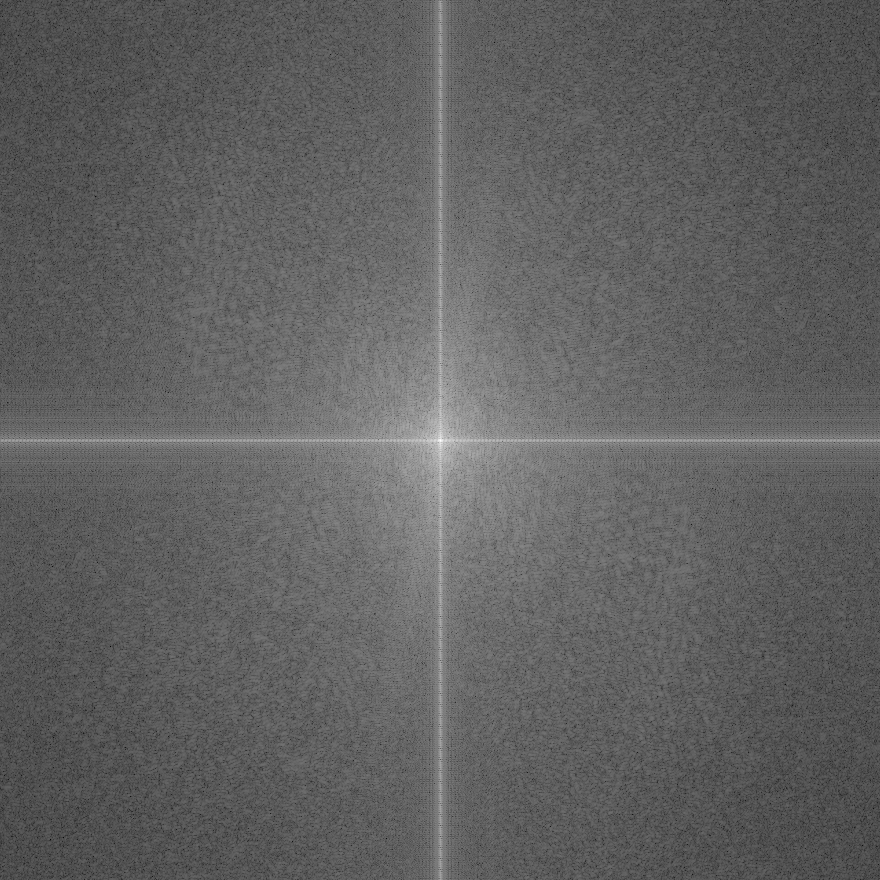
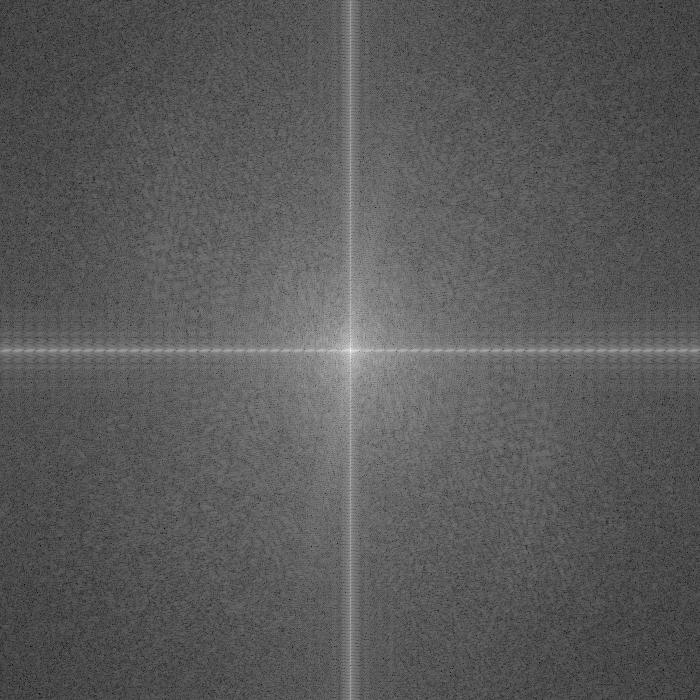
プログラムの整理

diff --git a/X-RayReconstruction/CVUtil.h b/X-RayReconstruction/CVUtil.h
@@ -41,4 +41,13 @@ namespace cvutil
 		cv::Mat q1(dstImg, cv::Rect(center.x, 0, center.x, center.y*2));
 		cvutil::swapMat(q0, q1);
 	}
+	void fftMagnitude(cv::Mat srcImg, cv::Mat &dstImg)
+	{
+		std::vector<cv::Mat> srcPlanes;
+		cv::split(srcImg, srcPlanes);
+		cv::magnitude(srcPlanes[0], srcPlanes[1], dstImg);
+		dstImg += cv::Scalar::all(1);
+		cv::log(dstImg, dstImg);
+		cv::normalize(dstImg, dstImg, 0, 1, CV_MINMAX);
+	}
 }
